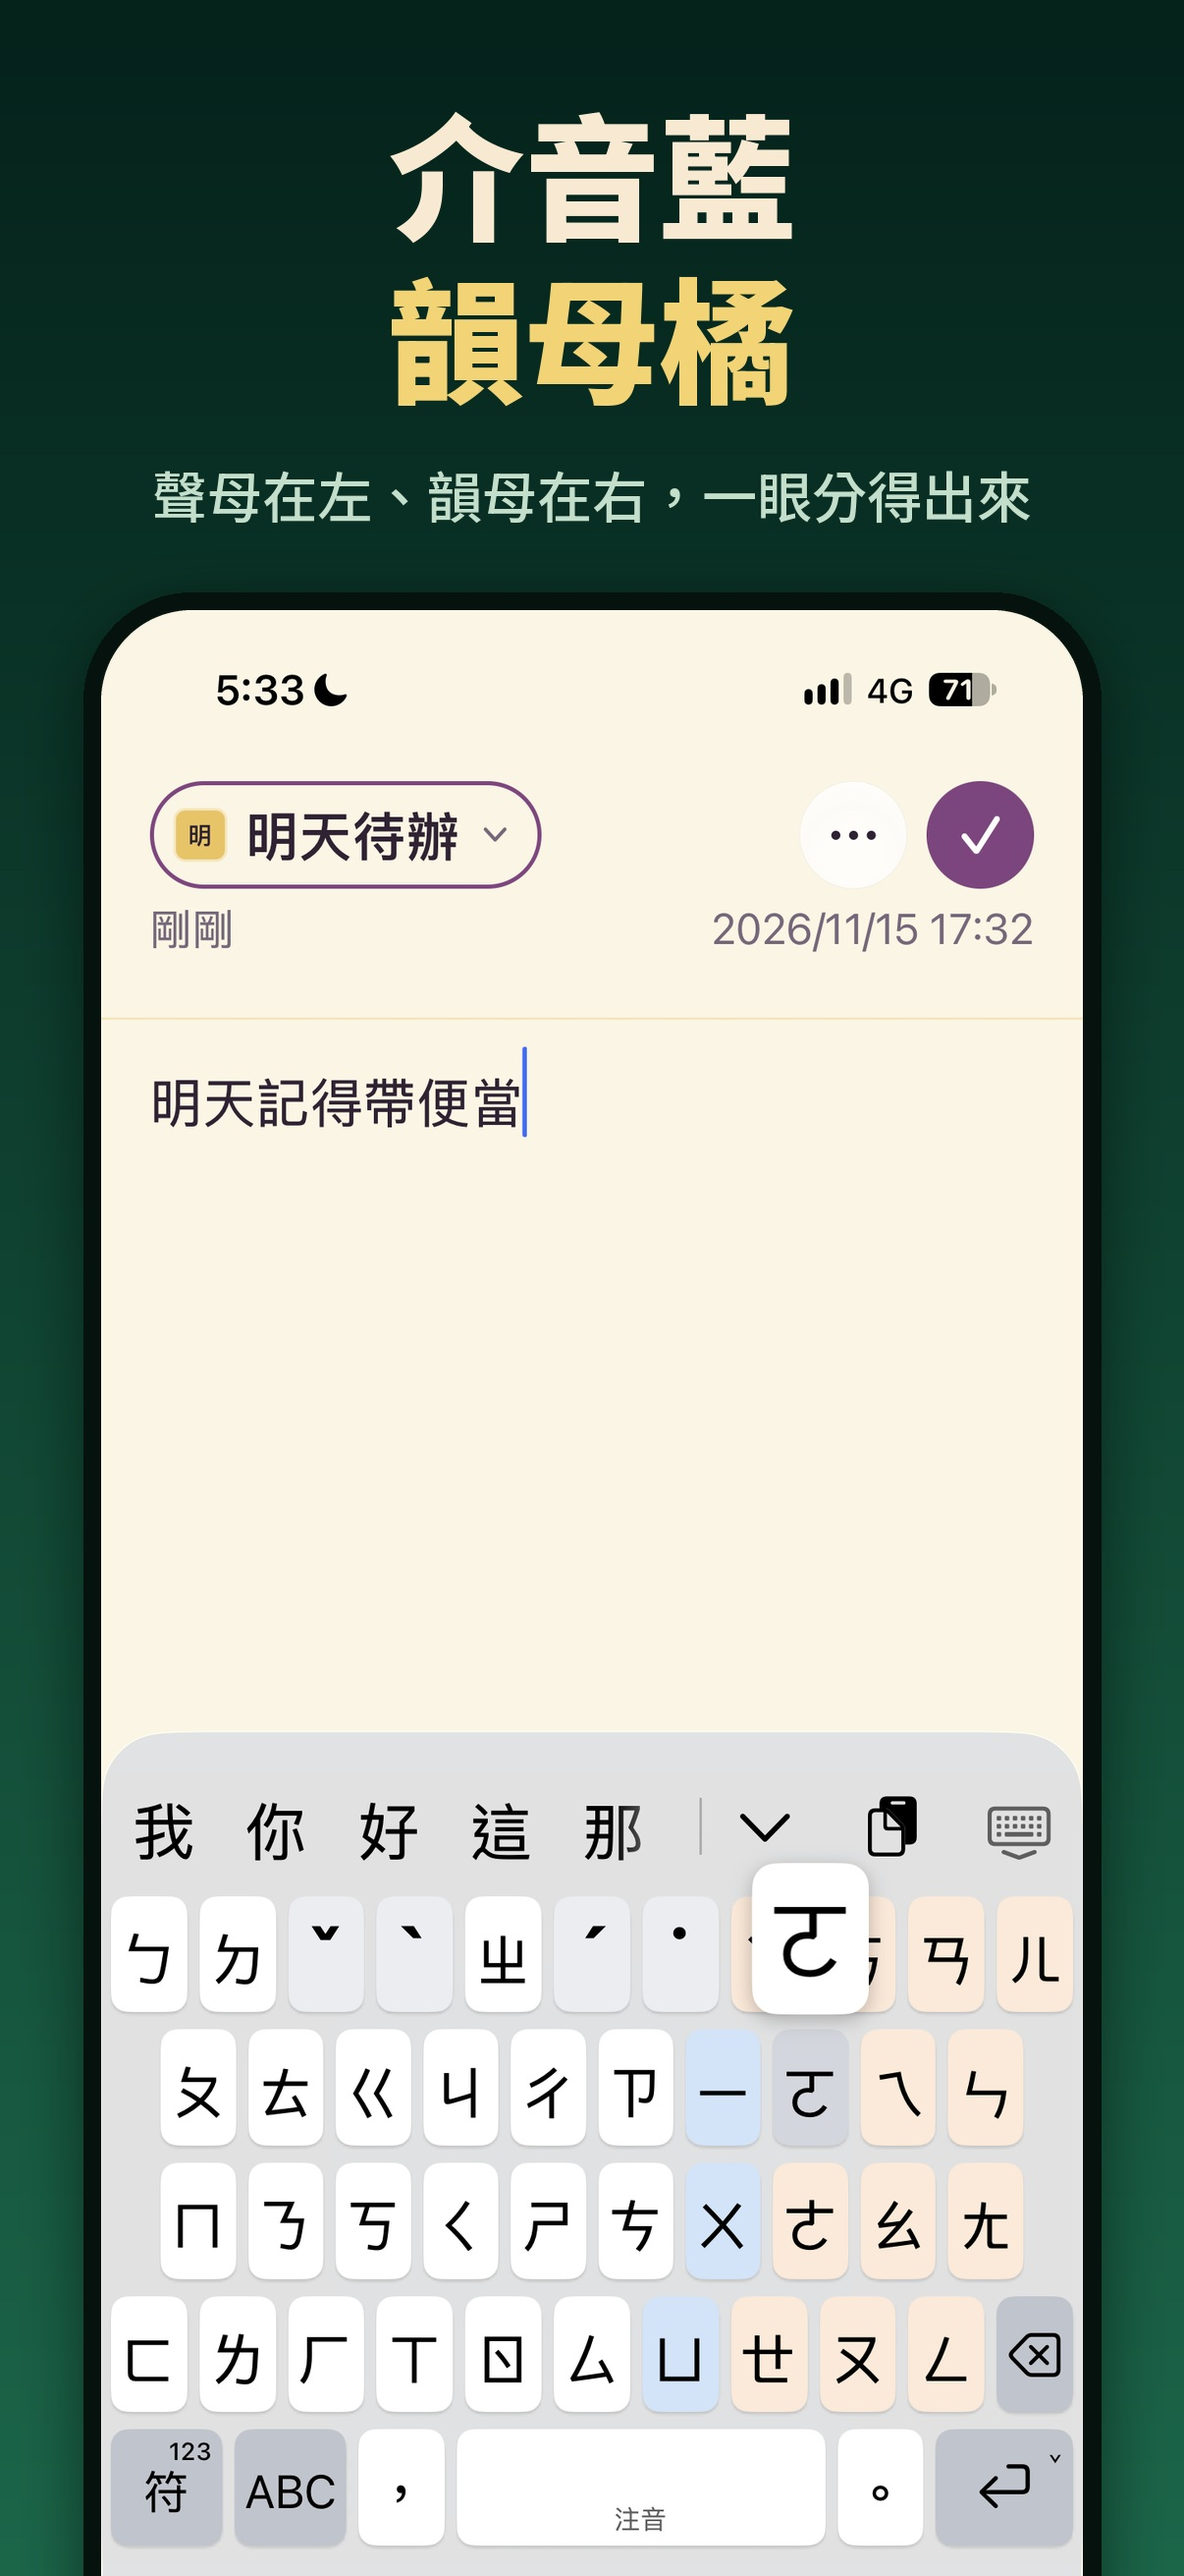
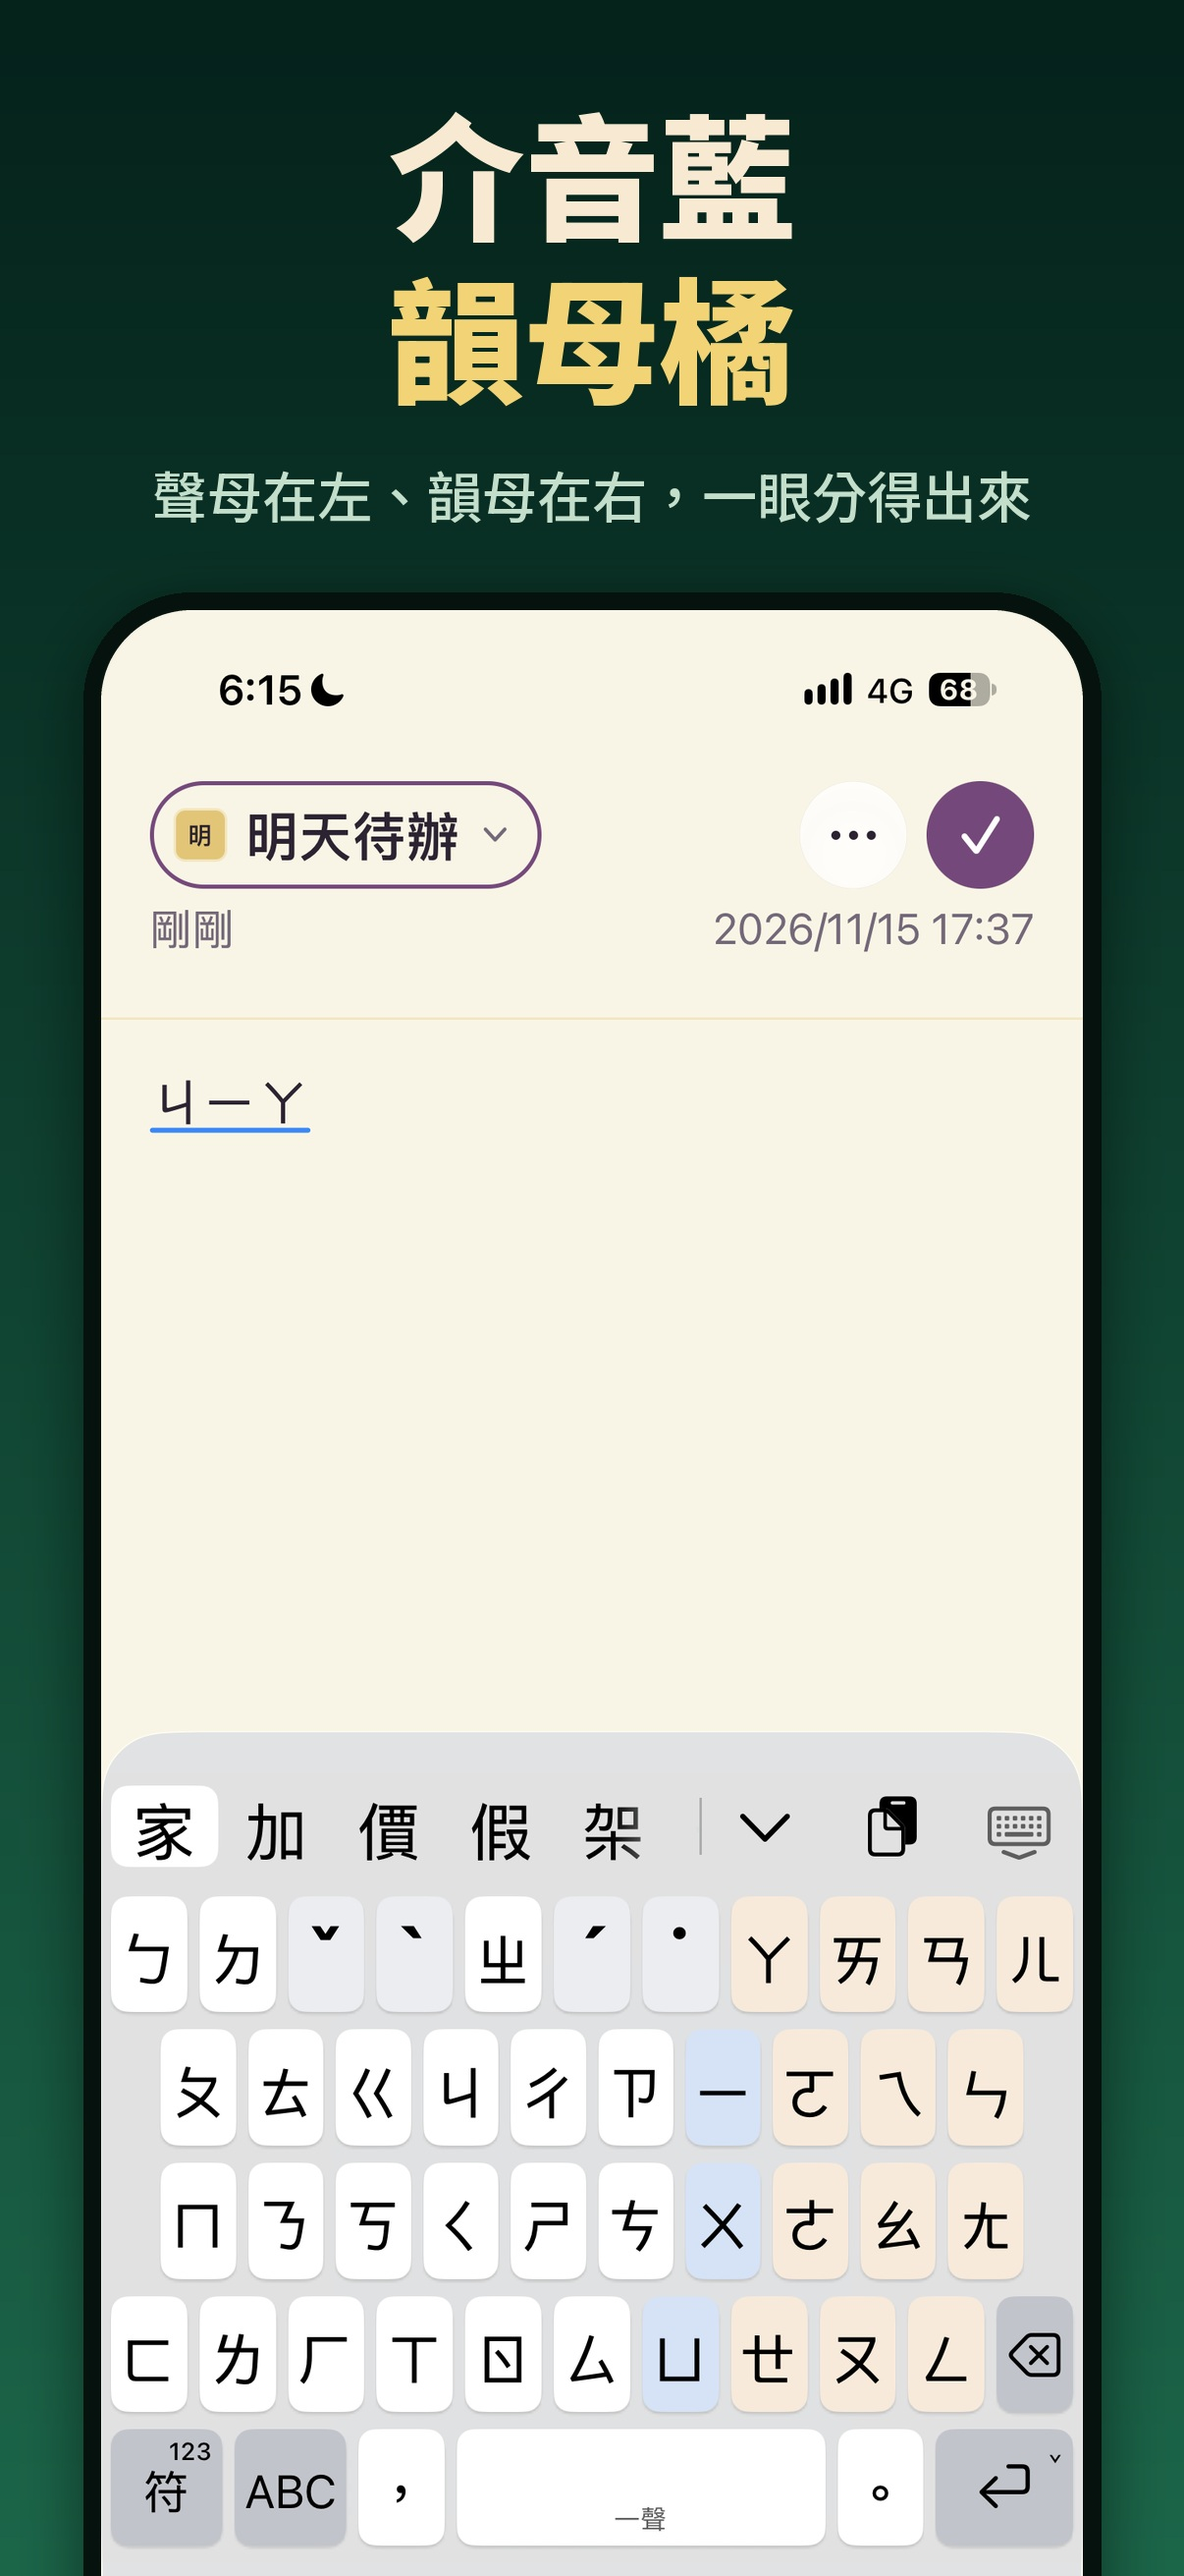
[文件] 上架圖第 2 張換成多米補拍的 2.PNG（打ㄐㄧㄚ不選字、沒有泡泡擋鍵） [skip ci]

diff --git a/.aso/05-素材文案.md b/.aso/05-素材文案.md
@@ -10,7 +10,7 @@
 | 格 | 要拍的畫面（全部用 1.1 的 build） | 說明文字 | 回答什麼 | 給誰 |
 |---|---|---|---|---|
 | 1 | 備忘錄裡打一句話，注音鍵面（冷灰、淺色），候選列有字，**按著一顆鍵**讓放大泡泡跳出來（原圖 1.PNG） | 主視覺：豆鍵 icon＋「字大鍵緊」＋「少按錯的注音鍵盤」＋三顆小標（排法不用重學、鍵盤不連網、冷灰主題免費） | 這是什麼（跟名稱講同一件事） | 所有人 |
-| 2 | **待補拍 2.PNG**：同一則備忘錄、冷灰淺色，打「ㄐㄧㄚ」不選字，手指放開再截（不要泡泡蓋住鍵，上面顯示ㄐㄧㄚ、候選有家、加）。沒補拍前先用 1.PNG | 介音藍／韻母橘＋「聲母在左、韻母在右，一眼分得出來」 | 怎麼運作 | 所有人 |
+| 2 | 同一則備忘錄、冷灰淺色，打「ㄐㄧㄚ」不選字，手指放開再截（不要泡泡蓋住鍵，上面顯示ㄐㄧㄚ、候選有家、加）（原圖 2.PNG，11/15 補拍） | 介音藍／韻母橘＋「聲母在左、韻母在右，一眼分得出來」 | 怎麼運作 | 所有人 |
 | 3 | 打「ㄉㄧ」按一下空白，候選只剩一聲字、空白鍵小字是「選字」（原圖 5.PNG） | 沒打聲調？／按空白當一聲＋「空白鍵上的小字，寫著這一下是一聲還是選字」（候選列、空白鍵放大） | 為什麼要裝（別人沒有） | 所有人 |
 | 4 | 豆鍵 App →設定→資料那一段（iCloud 同步開關是關的）（原圖 4.PNG） | 打的字／只留在手機上＋「鍵盤不連網，iCloud 同步預設是關的」（iCloud 那列稍微放大） | 完全取用、隱私 | 往下滑的人 |
 | 5 | 同一則備忘錄，深色模式（原圖 3.PNG） | 手機切深色／鍵盤跟著切（1.0 多米原本的說明）＋「深色模式跟著系統，也跟著輸入框」 | 晚上用刺不刺眼 | 往下滑的人 |
